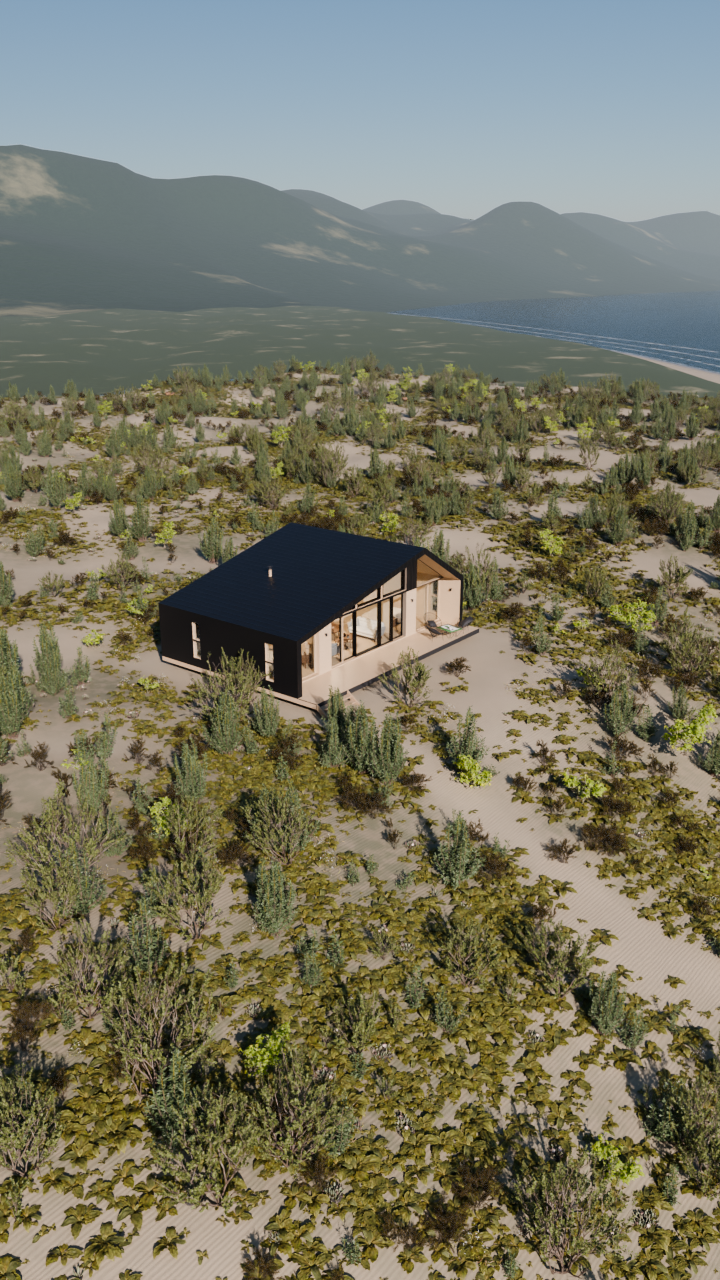
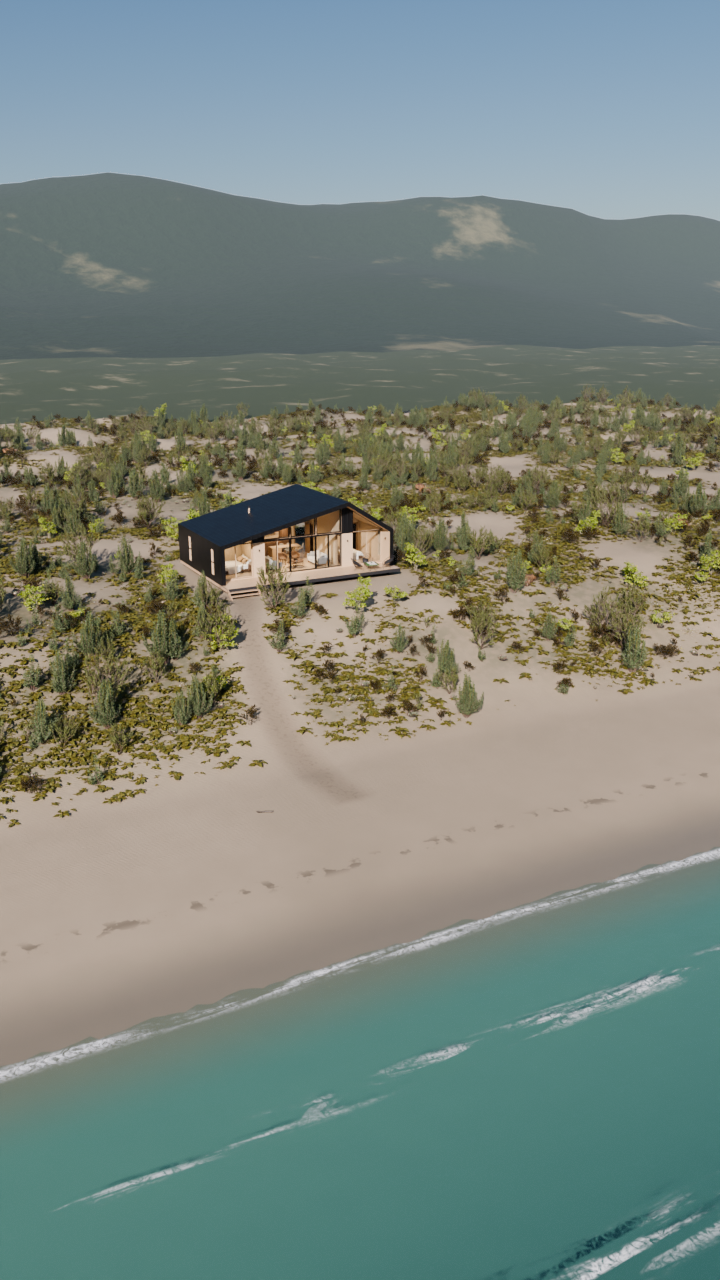
Casa Huingan: más playa en las tomas, sendero marcado hasta la arena y mar con el fondo iluminado
Claude-Session: https://claude.ai/code/session_01TLMqQTCsmFfVC3gi24LTgr

diff --git a/casa_huingan_3d.py b/casa_huingan_3d.py
@@ -40,8 +40,8 @@ WB_TEMP = float(opts["wb"])
 L, D = 12.18, 9.24           # ancho y fondo total del casco (terraza + caja + porch)
 HC = Vector((L / 2, 4.6))    # centro de la casa en planta
 GROUND = -0.31               # terreno bajo la casa
-SEA = -7.0                   # nivel del mar (la casa está en una meseta de duna sobre la playa)
-SHORE_Y = -45.0              # orilla frente a la casa: la punta de la península
+SEA = -5.0                   # nivel del mar (la casa está en una meseta de duna sobre la playa)
+SHORE_Y = -33.0              # orilla frente a la casa: la punta de la península
 SHORE_K = 420.0              # la orilla se abre hacia +Y a ambos lados: y = SHORE_Y + (x - XC)² / K
 XC = 6.0
 FPS = 24
@@ -257,12 +257,18 @@ def sand_mat():
                   N.smooth(N.noise(tc.outputs["Object"], 1.3, 3), 0.55, 0.62))
     col = N.mix(N.math("MULTIPLY", tide, 0.7), col, (0.12, 0.1, 0.07))
     depth = N.math("MULTIPLY", d, -1.0)
-    col = N.mix(N.smooth(depth, 0.0, 7.0), col, (0.14, 0.24, 0.19))
-    col = N.mix(N.smooth(depth, 5.0, 45.0), col, (0.015, 0.07, 0.075))
+    col = N.mix(N.smooth(depth, 0.0, 4.0), col, (0.12, 0.22, 0.18))
+    col = N.mix(N.smooth(depth, 3.0, 28.0), col, (0.012, 0.055, 0.065))
     at = n.new("ShaderNodeAttribute")
     at.attribute_name = "veg"
     soil = N.mix(N.smooth(N.noise(tc.outputs["Object"], 2.0, 5), 0.35, 0.6), (0.2, 0.17, 0.11), (0.1, 0.11, 0.06))
     col = N.mix(N.math("MULTIPLY", at.outputs["Fac"], 0.75), col, soil)
+    # sendero: arena pisada, algo más oscura y con huellas
+    cm = n.new("ShaderNodeAttribute")
+    cm.attribute_name = "camino"
+    steps = N.smooth(N.noise(tc.outputs["Object"], 5.0, 3), 0.5, 0.7)
+    col = N.mix(N.math("MULTIPLY", cm.outputs["Fac"], N.math("ADD", 0.6, N.math("MULTIPLY", steps, 0.3))), col,
+                (0.2, 0.16, 0.11))
     l.new(col, b.inputs["Base Color"])
     l.new(N.math("ADD", 0.9, N.math("MULTIPLY", wet_f, -0.6)), b.inputs["Roughness"])
     # ondas de viento: bandas distorsionadas sólo en arena seca
@@ -308,7 +314,13 @@ def water_mat():
     fr = n.new("ShaderNodeFresnel")
     fr.inputs["IOR"].default_value = 1.333
     wat = n.new("ShaderNodeMixShader")
-    l.new(fr.outputs["Fac"], wat.inputs["Fac"])
+    # el reflejo sólo por arriba y nunca para las sombras: visto desde el fondo, el Fresnel daría
+    # reflexión total y la arena sumergida quedaría a oscuras
+    geo = n.new("ShaderNodeNewGeometry")
+    lpw = n.new("ShaderNodeLightPath")
+    fac = N.math("MULTIPLY", fr.outputs["Fac"], N.math("SUBTRACT", 1.0, geo.outputs["Backfacing"]))
+    fac = N.math("MULTIPLY", fac, N.math("SUBTRACT", 1.0, lpw.outputs["Is Shadow Ray"]))
+    l.new(fac, wat.inputs["Fac"])
     l.new(tr.outputs[0], wat.inputs[1])
     l.new(gl.outputs[0], wat.inputs[2])
     # olas: paralelas a la orilla, con ruido
@@ -318,11 +330,10 @@ def water_mat():
     w1 = N.noise(mp.outputs["Vector"], 0.35, 7, 0.6)
     w2 = N.noise(tc.outputs["Object"], 1.6, 5, 0.55)
     bmp = n.new("ShaderNodeBump")
-    bmp.inputs["Strength"].default_value = 0.6
-    bmp.inputs["Distance"].default_value = 0.6
+    bmp.inputs["Strength"].default_value = 0.45
+    bmp.inputs["Distance"].default_value = 0.5
     l.new(N.math("ADD", w1, N.math("MULTIPLY", w2, 0.3)), bmp.inputs["Height"])
     l.new(bmp.outputs["Normal"], gl.inputs["Normal"])
-    l.new(bmp.outputs["Normal"], fr.inputs["Normal"])
     # espuma: borde de la orilla + dos líneas de rompiente, rotas por ruido
     mf = n.new("ShaderNodeMapping")
     mf.inputs["Scale"].default_value = (0.12, 1.0, 1.0)
@@ -331,11 +342,11 @@ def water_mat():
     lace = N.noise(tc.outputs["Object"], 3.0, 8, 0.7, 2.0)
     edge = N.math("MULTIPLY", N.math("SUBTRACT", 1.0, N.smooth(d, 0.3, 0.9)), N.smooth(d, 0.0, 0.25))
     lines = 0
-    for c, wdt in ((7.0, 0.9), (15.0, 1.3), (26.0, 1.6)):
+    for c, wdt in ((6.0, 0.7), (14.0, 1.0), (24.0, 1.2)):
         band = N.math("SUBTRACT", 1.0, N.smooth(N.math("ABSOLUTE", N.math("SUBTRACT", d, c)), 0.0, wdt))
         lines = band if lines == 0 else N.math("MAXIMUM", lines, band)
     foam = N.math("MAXIMUM", N.math("MULTIPLY", edge, N.smooth(brk, 0.4, 0.55)),
-                  N.math("MULTIPLY", lines, N.smooth(brk, 0.45, 0.6)))
+                  N.math("MULTIPLY", lines, N.smooth(brk, 0.48, 0.62)))
     foam = N.math("MULTIPLY", foam, N.smooth(lace, 0.35, 0.6))
     fb = n.new("ShaderNodeBsdfPrincipled")
     fb.inputs["Base Color"].default_value = (0.85, 0.87, 0.86, 1)
@@ -489,8 +500,8 @@ def house_dist(x, y):
     return math.hypot(dx, dy)
 
 
-BEACH = 14.0     # ancho de la playa (m)
-SLOPE_W = 26.0   # ancho de la ladera de la duna que sube desde la playa hasta la meseta
+BEACH = 13.0     # ancho de la playa (m)
+SLOPE_W = 16.0   # ancho de la ladera de la duna que sube desde la playa hasta la meseta
 
 
 def terrain_base(x, y):
@@ -506,14 +517,30 @@ def terrain_base(x, y):
     return top + t * (GROUND - top)
 
 
+def path_x(y):
+    """Eje del sendero (x) que baja serpenteando desde la escalera de la terraza a la playa."""
+    return 1.0 + 3.0 * math.sin(y / 9.0) - 0.04 * min(0.0, y) * math.sin(y / 23.0)
+
+
+def path_dist(x, y):
+    """Distancia (m) al eje del sendero; lejos en la meseta detrás de la escalera."""
+    if y > -0.6:
+        return math.hypot(x - path_x(-0.6), y + 0.6)
+    return abs(x - path_x(y))
+
+
 def terrain_h(x, y):
     h = terrain_base(x, y)
     d = shore_d(x, y)
+    pd = path_dist(x, y)
     # dunas suaves en la meseta y en la ladera; se aplanan junto a la casa
     amp = min(1.0, max(0.0, (d - BEACH - 3) / 12.0)) * (0.9 + min(1.0, max(0.0, (d - 60) / 60.0)) * 1.8)
     flat = min(1.0, max(0.0, (house_dist(x, y) - 1.0) / 8.0))
     dn = noise.noise(Vector((x / 16.0, y / 12.0, 0.3))) + 0.4 * noise.noise(Vector((x / 5.0, y / 4.0, 1.7)))
+    flat = min(flat, 0.3 + 0.7 * min(1.0, max(0.0, (pd - 1.0) / 4.0)))   # el sendero corta la duna
     h += amp * flat * (0.4 + 0.7 * dn)
+    if d > BEACH:                                           # huella levemente hundida
+        h -= 0.07 * max(0.0, 1.0 - pd / 1.1)
     # cerros costeros al fondo, tierra adentro
     if y > 280:
         r = min(1.0, (y - 280) / 300.0)
@@ -541,7 +568,7 @@ def build_landscape(M):
     coll = bpy.data.collections.new("Paisaje")
     bpy.context.scene.collection.children.link(coll)
     near = (-90, 110, -70, 90)
-    sand = grid("Playa", *near, 0.75, M["arena"], coll)
+    sand = grid("Playa", *near, 0.5, M["arena"], coll)
     # lejos: playa y dunas hacia los costados + cerros (sin el hueco del terreno cercano)
     inside = lambda x, y: near[0] < x < near[1] and near[2] < y < near[3]  # noqa: E731
     far = grid("Lejos", -2100, 2100, -600, 2700, 15.0, M["arena"], coll, skip=inside)
@@ -557,6 +584,9 @@ def build_landscape(M):
              [(0, 1, 2, 3)], fondo, coll)
     mesh_obj("Mar", [(-40000, -40000, SEA), (40000, -40000, SEA), (40000, 40000, SEA), (-40000, 40000, SEA)],
              [(0, 1, 2, 3)], M["mar"], coll)
+    mar = bpy.data.objects["Mar"]
+    if mar.data.polygons[0].normal.z < 0:   # normal hacia arriba: si no, el Fresnel ve el agua desde abajo
+        mar.data.flip_normals()
     return sand
 
 
@@ -638,21 +668,23 @@ def build_vegetation(sand, bq, ph):
     """Pastos de duna y arbustos con nodos de geometría sobre el terreno cercano, según un
     atributo 'veg' (0 en la playa, la pasarela y bajo la casa; 1 en la duna)."""
     me = sand.data
-    veg = []
+    veg, cam = [], []
     for v in me.vertices:
         x, y = v.co.x, v.co.y
         d = shore_d(x, y)
         w = min(1.0, max(0.0, (d - BEACH - 1.5) / 5.0))
         w *= min(1.0, max(0.0, (house_dist(x, y) - 0.2) / 1.5))
         # sendero de arena desde la escalera de la terraza hasta la playa
-        px = 1.0 + 3.0 * math.sin(y / 9.0)
-        if y < 0.5:
-            w *= min(1.0, max(0.0, (abs(x - px) - 0.5) / 1.2))
+        pd = path_dist(x, y)
+        w *= min(1.0, max(0.0, (pd - 0.9) / 1.3))
+        cam.append(min(1.0, max(0.0, 1.4 - pd / 0.9)) if d > BEACH - 3 else 0.0)
         w *= min(1.0, max(0.0, 0.55 + 1.3 * noise.noise(Vector((x / 7.0, y / 7.0, 2.2)))
                           + 0.4 * noise.noise(Vector((x / 2.5, y / 2.5, 4.1)))))
         veg.append(max(0.0, min(1.0, w)))
     at = me.attributes.new("veg", "FLOAT", "POINT")
     at.data.foreach_set("value", veg)
+    at = me.attributes.new("camino", "FLOAT", "POINT")
+    at.data.foreach_set("value", cam)
     ng = bpy.data.node_groups.new("Duna", "GeometryNodeTree")
     ng.interface.new_socket("Geometry", in_out="INPUT", socket_type="NodeSocketGeometry")
     ng.interface.new_socket("Geometry", in_out="OUTPUT", socket_type="NodeSocketGeometry")
@@ -777,7 +809,11 @@ def build_world():
     lp = n.new("ShaderNodeLightPath")
     pick = n.new("ShaderNodeMix")
     pick.data_type = "RGBA"
-    l.new(lp.outputs["Is Camera Ray"], pick.inputs[0])
+    seen = n.new("ShaderNodeMath")          # cámara o reflejos (mar, vidrios) ven el cielo limpio
+    seen.operation = "MAXIMUM"
+    l.new(lp.outputs["Is Camera Ray"], seen.inputs[0])
+    l.new(lp.outputs["Is Glossy Ray"], seen.inputs[1])
+    l.new(seen.outputs[0], pick.inputs[0])
     l.new(env.outputs["Color"], pick.inputs[6])
     l.new(cam_sky.outputs[2], pick.inputs[7])
     l.new(pick.outputs[2], bg.inputs[0])
@@ -843,8 +879,8 @@ def setup_render():
 # tomas fijas de dron desde el mar, a cada lado del frente (más abiertas que en Lingue, para
 # poder reencuadrar y desenfocar en la edición)
 VISTAS = {
-    "izq": ((-30.0, -26.0, 17.0), (6.6, 3.0, 0.5), 30),
-    "der": ((42.0, -26.0, 17.0), (5.6, 3.0, 0.5), 30),
+    "izq": ((-22.0, -60.0, 17.0), (5.0, -8.0, -1.5), 30),
+    "der": ((34.0, -60.0, 17.0), (7.0, -8.0, -1.5), 30),
 }
 
 
